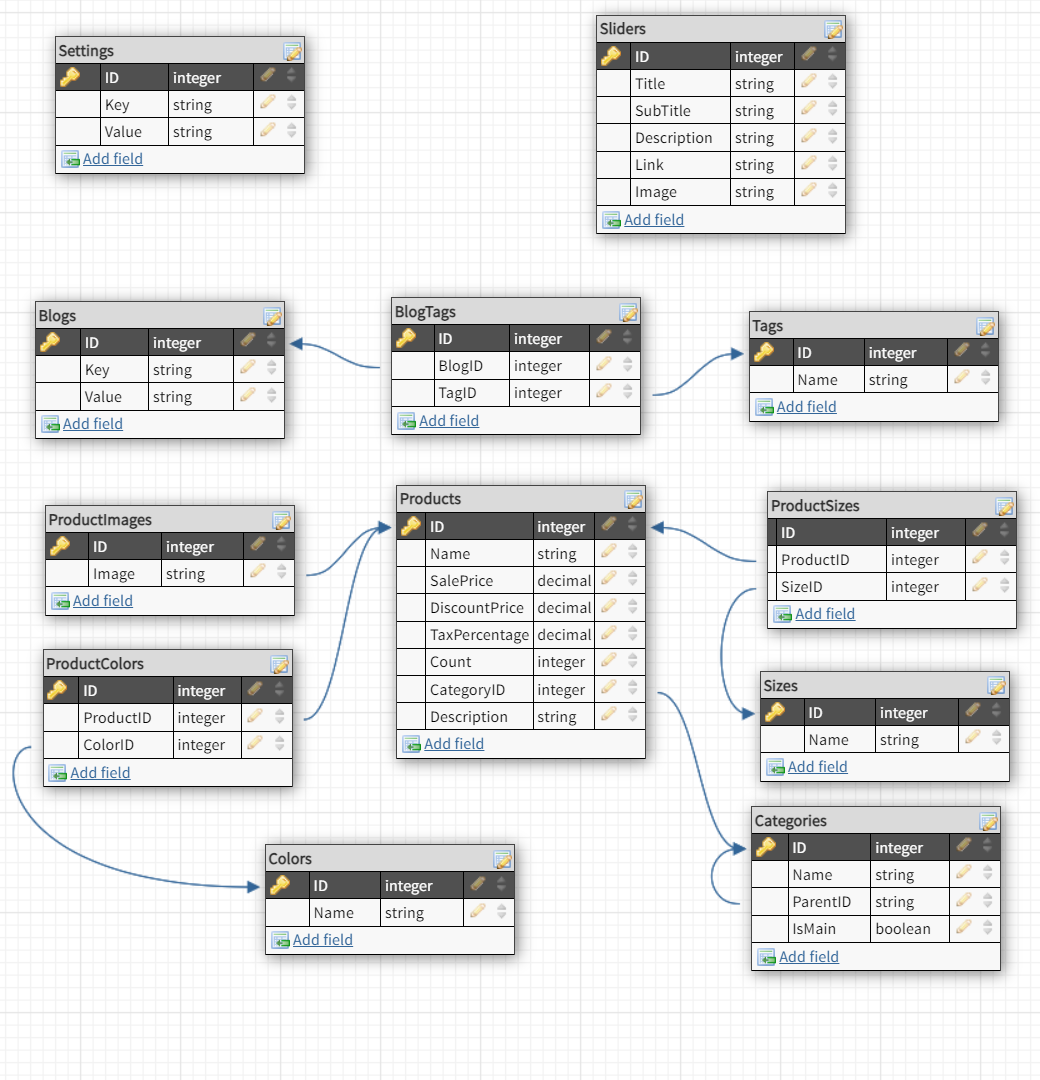
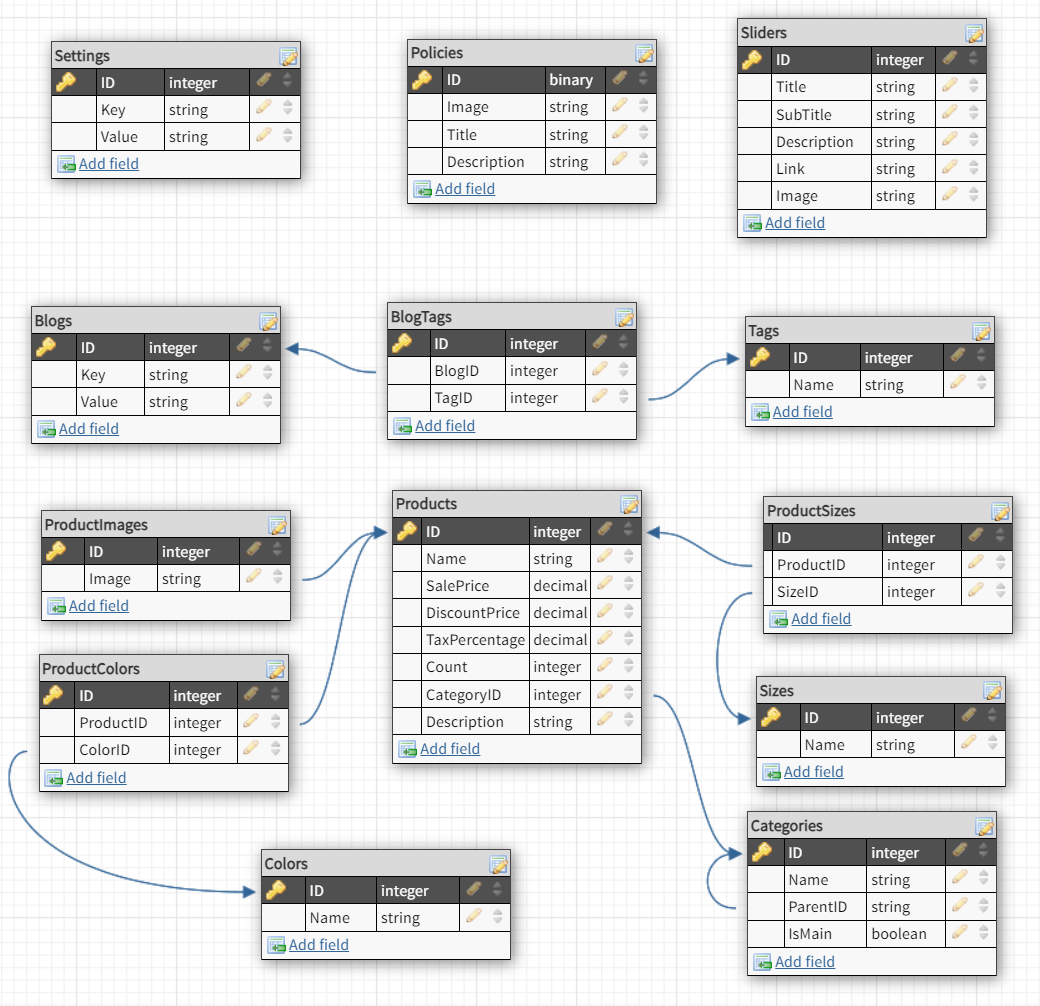
Added Index Action

diff --git a/Juan_PB301EmilMusayev/Data/Migrations/20240725230255_addedPolicyTable.cs b/Juan_PB301EmilMusayev/Data/Migrations/20240725230255_addedPolicyTable.cs
@@ -1,0 +1,41 @@
+using System;
+using Microsoft.EntityFrameworkCore.Migrations;
+
+#nullable disable
+
+namespace Juan_PB301EmilMusayev.Data.Migrations
+{
+    /// <inheritdoc />
+    public partial class addedPolicyTable : Migration
+    {
+        /// <inheritdoc />
+        protected override void Up(MigrationBuilder migrationBuilder)
+        {
+            migrationBuilder.CreateTable(
+                name: "Policies",
+                columns: table => new
+                {
+                    Id = table.Column<int>(type: "int", nullable: false)
+                        .Annotation("SqlServer:Identity", "1, 1"),
+                    Image = table.Column<string>(type: "nvarchar(max)", nullable: true),
+                    Title = table.Column<string>(type: "nvarchar(max)", nullable: true),
+                    Description = table.Column<string>(type: "nvarchar(max)", nullable: true),
+                    CreateDate = table.Column<DateTime>(type: "datetime2", nullable: false),
+                    UpdateDate = table.Column<DateTime>(type: "datetime2", nullable: true),
+                    DeleteDate = table.Column<DateTime>(type: "datetime2", nullable: true),
+                    IsDeleted = table.Column<bool>(type: "bit", nullable: false)
+                },
+                constraints: table =>
+                {
+                    table.PrimaryKey("PK_Policies", x => x.Id);
+                });
+        }
+
+        /// <inheritdoc />
+        protected override void Down(MigrationBuilder migrationBuilder)
+        {
+            migrationBuilder.DropTable(
+                name: "Policies");
+        }
+    }
+}

diff --git a/Juan_PB301EmilMusayev/Data/Migrations/20240725230255_addedPolicyTable.Designer.cs b/Juan_PB301EmilMusayev/Data/Migrations/20240725230255_addedPolicyTable.Designer.cs
@@ -4,6 +4,7 @@ using Juan_PB301EmilMusayev.Data;
 using Microsoft.EntityFrameworkCore;
 using Microsoft.EntityFrameworkCore.Infrastructure;
 using Microsoft.EntityFrameworkCore.Metadata;
+using Microsoft.EntityFrameworkCore.Migrations;
 using Microsoft.EntityFrameworkCore.Storage.ValueConversion;
 
 #nullable disable
@@ -11,9 +12,11 @@ using Microsoft.EntityFrameworkCore.Storage.ValueConversion;
 namespace Juan_PB301EmilMusayev.Data.Migrations
 {
     [DbContext(typeof(JuanDbContext))]
-    partial class JuanDbContextModelSnapshot : ModelSnapshot
+    [Migration("20240725230255_addedPolicyTable")]
+    partial class addedPolicyTable
     {
-        protected override void BuildModel(ModelBuilder modelBuilder)
+        /// <inheritdoc />
+        protected override void BuildTargetModel(ModelBuilder modelBuilder)
         {
 #pragma warning disable 612, 618
             modelBuilder
@@ -95,10 +98,6 @@ namespace Juan_PB301EmilMusayev.Data.Migrations
                         .HasColumnType("int");
 
                     SqlServerPropertyBuilderExtensions.UseIdentityColumn(b.Property<int>("Id"));
-
-                    b.Property<string>("Background")
-                        .IsRequired()
-                        .HasColumnType("nvarchar(max)");
 
                     b.Property<DateTime>("CreateDate")
                         .HasColumnType("datetime2");

diff --git a/Juan_PB301EmilMusayev/Controllers/HomeController.cs b/Juan_PB301EmilMusayev/Controllers/HomeController.cs
@@ -1,12 +1,27 @@
+using Juan_PB301EmilMusayev.Data;
+using Juan_PB301EmilMusayev.ViewModels;
 using Microsoft.AspNetCore.Mvc;
+using Microsoft.EntityFrameworkCore;
 
 namespace Juan_PB301EmilMusayev.Controllers
 {
     public class HomeController : Controller
     {
-        public IActionResult Index()
+        private readonly JuanDbContext _context;
+        public HomeController(JuanDbContext context)
         {
-            return View();
+            _context = context;
+        }
+
+        public async Task<IActionResult> Index()
+        {
+            HomeVM homeVM = new();
+            homeVM.Sliders= await _context.Sliders.Where(s => !s.IsDeleted).ToListAsync();
+            homeVM.Policies = await _context.Policies.Where(s => !s.IsDeleted).ToListAsync();
+            homeVM.ProductDescription = _context.Settings.Where(s => s.Key == "ProductDescription"&&!s.IsDeleted).FirstOrDefault().Value.ToString();
+            homeVM.Products = await _context.Products.Include(p=>p.ProductImages).ToListAsync();
+       
+            return View(homeVM);
         }
     }
 }

diff --git a/Juan_PB301EmilMusayev/Data/Migrations/20240726103623_backgroundColumnAddedToPolicyTable.Designer.cs b/Juan_PB301EmilMusayev/Data/Migrations/20240726103623_backgroundColumnAddedToPolicyTable.Designer.cs
@@ -4,6 +4,7 @@ using Juan_PB301EmilMusayev.Data;
 using Microsoft.EntityFrameworkCore;
 using Microsoft.EntityFrameworkCore.Infrastructure;
 using Microsoft.EntityFrameworkCore.Metadata;
+using Microsoft.EntityFrameworkCore.Migrations;
 using Microsoft.EntityFrameworkCore.Storage.ValueConversion;
 
 #nullable disable
@@ -11,9 +12,11 @@ using Microsoft.EntityFrameworkCore.Storage.ValueConversion;
 namespace Juan_PB301EmilMusayev.Data.Migrations
 {
     [DbContext(typeof(JuanDbContext))]
-    partial class JuanDbContextModelSnapshot : ModelSnapshot
+    [Migration("20240726103623_backgroundColumnAddedToPolicyTable")]
+    partial class backgroundColumnAddedToPolicyTable
     {
-        protected override void BuildModel(ModelBuilder modelBuilder)
+        /// <inheritdoc />
+        protected override void BuildTargetModel(ModelBuilder modelBuilder)
         {
 #pragma warning disable 612, 618
             modelBuilder

diff --git a/Juan_PB301EmilMusayev/Data/Migrations/20240726103623_backgroundColumnAddedToPolicyTable.cs b/Juan_PB301EmilMusayev/Data/Migrations/20240726103623_backgroundColumnAddedToPolicyTable.cs
@@ -1,0 +1,29 @@
+using Microsoft.EntityFrameworkCore.Migrations;
+
+#nullable disable
+
+namespace Juan_PB301EmilMusayev.Data.Migrations
+{
+    /// <inheritdoc />
+    public partial class backgroundColumnAddedToPolicyTable : Migration
+    {
+        /// <inheritdoc />
+        protected override void Up(MigrationBuilder migrationBuilder)
+        {
+            migrationBuilder.AddColumn<string>(
+                name: "Background",
+                table: "Policies",
+                type: "nvarchar(max)",
+                nullable: false,
+                defaultValue: "");
+        }
+
+        /// <inheritdoc />
+        protected override void Down(MigrationBuilder migrationBuilder)
+        {
+            migrationBuilder.DropColumn(
+                name: "Background",
+                table: "Policies");
+        }
+    }
+}

diff --git a/Juan_PB301EmilMusayev/Data/JuanDbContext.cs b/Juan_PB301EmilMusayev/Data/JuanDbContext.cs
@@ -14,6 +14,7 @@ namespace Juan_PB301EmilMusayev.Data
         public DbSet<ProductSize> ProductSizes { get; set; }
         public DbSet<Color> Colors { get; set; }
         public DbSet<ProductColor> ProductColors { get; set; }
+        public DbSet<Policy> Policies { get; set; }
 
         public JuanDbContext(DbContextOptions options) : base(options)
         {

diff --git a/Juan_PB301EmilMusayev/ViewModels/HomeVM.cs b/Juan_PB301EmilMusayev/ViewModels/HomeVM.cs
@@ -1,0 +1,13 @@
+using Juan_PB301EmilMusayev.Models;
+
+namespace Juan_PB301EmilMusayev.ViewModels
+{
+    public class HomeVM
+    {
+        public List<Slider>? Sliders { get; set; }
+        public List<Product>? Products { get; set; }
+        public List<Policy>? Policies { get; set; }
+        public string? ProductDescription { get; set; }
+
+    }
+}

diff --git a/Juan_PB301EmilMusayev/Models/Policy.cs b/Juan_PB301EmilMusayev/Models/Policy.cs
@@ -1,0 +1,10 @@
+namespace Juan_PB301EmilMusayev.Models
+{
+    public class Policy:BaseEntity
+    {
+        public string? Image { get; set; }
+        public string? Title { get; set; }
+        public string? Description { get; set; }
+        public string Background { get; set; }
+    }
+}

diff --git a/Juan_PB301EmilMusayev/Program.cs b/Juan_PB301EmilMusayev/Program.cs
@@ -10,7 +10,6 @@ builder.Services.AddDbContext<JuanDbContext>(options =>
     options.UseSqlServer(config.GetConnectionString("DefaultConnection"));
 });
 var app = builder.Build();
-
 // Configure the HTTP request pipeline.
 if (!app.Environment.IsDevelopment())
 {
